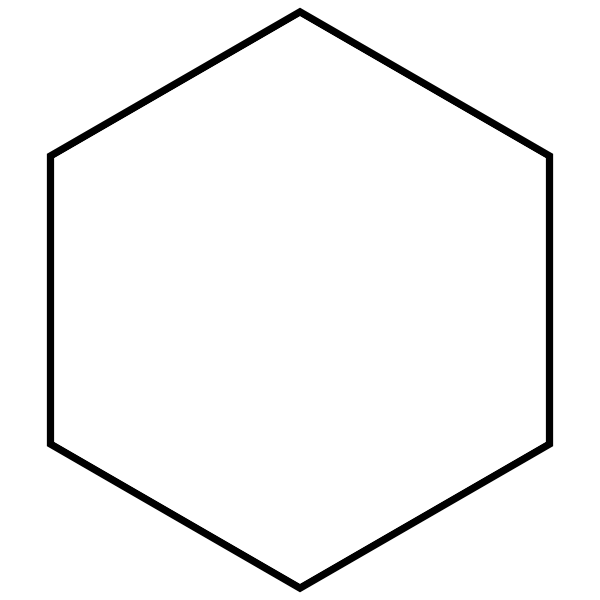
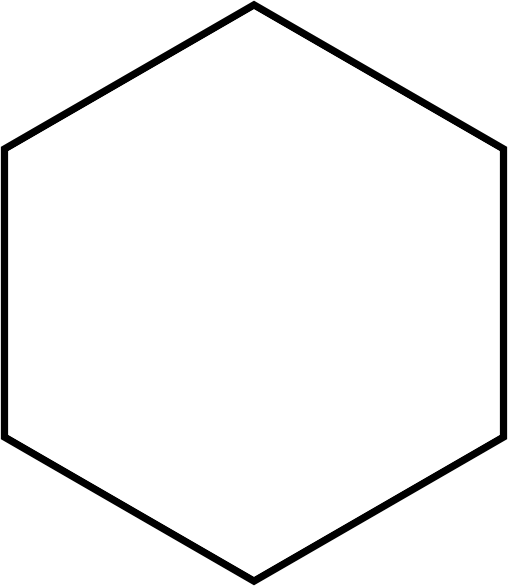
Corrections images + espacement des hexagones.

Changed region(s): [[0.0, 0.0, 1.0, 1.0]]

diff --git a/src/main/java/outerhaven/Plateau.java b/src/main/java/outerhaven/Plateau.java
@@ -33,7 +33,7 @@ public class Plateau {
 
         while (i < aire) {
             if (!decalage) {
-                Double posY = largeurMax / 2 - (taille * Math.sqrt(aire)/ 2) + ligne * taille -taille*ligne/4.2;
+                Double posY = largeurMax / 2 - (taille * Math.sqrt(aire)/ 2) + ligne * taille - taille*ligne/4;
                 decalage = true;
                 for (int j = 0; j < Math.sqrt(aire); j++) {
                     Double posX = longeurMax/2 - (taille*(Math.sqrt(aire))/2)+ j*taille;
@@ -44,7 +44,7 @@ public class Plateau {
                 ligne++;
             }
             else {
-                Double posY = largeurMax / 2 - (taille * Math.sqrt(aire)/ 2) + ligne * taille -taille*ligne/4.2;
+                Double posY = largeurMax / 2 - (taille * Math.sqrt(aire)/ 2) + ligne * taille - taille*ligne/4;
                 decalage = false;
                 for (int j = 0; j < Math.sqrt(aire)+1 ; j++) {
                     Double posX =longeurMax/2 - (taille*(Math.sqrt(aire))/2)+ j*taille - taille/2 ;

diff --git a/src/main/java/outerhaven/Case.java b/src/main/java/outerhaven/Case.java
@@ -10,8 +10,8 @@ public class Case {
     int id;
     boolean status;
     Case[] caseVoisines = new Case[6];
-    public static Image hexagone_img1 = new Image("https://cdn.discordapp.com/attachments/764528562429624391/764528653961920542/hexagon.png");
-    public static Image hexagone_img2 = new Image("https://cdn.discordapp.com/attachments/764528562429624391/764528656085155920/hexagon2.png");
+    public static Image hexagone_img1 = new Image("https://cdn.discordapp.com/attachments/764528562429624391/764556130671132672/hexagon.png");
+    public static Image hexagone_img2 = new Image("https://cdn.discordapp.com/attachments/764528562429624391/764556132613488680/hexagon2.png");
 
     public Case(int id, boolean status) {
         this.id = id;

diff --git a/src/main/java/outerhaven/App.java b/src/main/java/outerhaven/App.java
@@ -9,7 +9,7 @@ public class App extends Application {
     public void start(Stage stage) {
     stage.setTitle("test");
     stage.setFullScreen(true);
-    Plateau test = new Plateau(100,stage);
+    Plateau test = new Plateau(10,stage);
     test.lancerScenePlateau();
     }
     public static void main(String[] args) {
